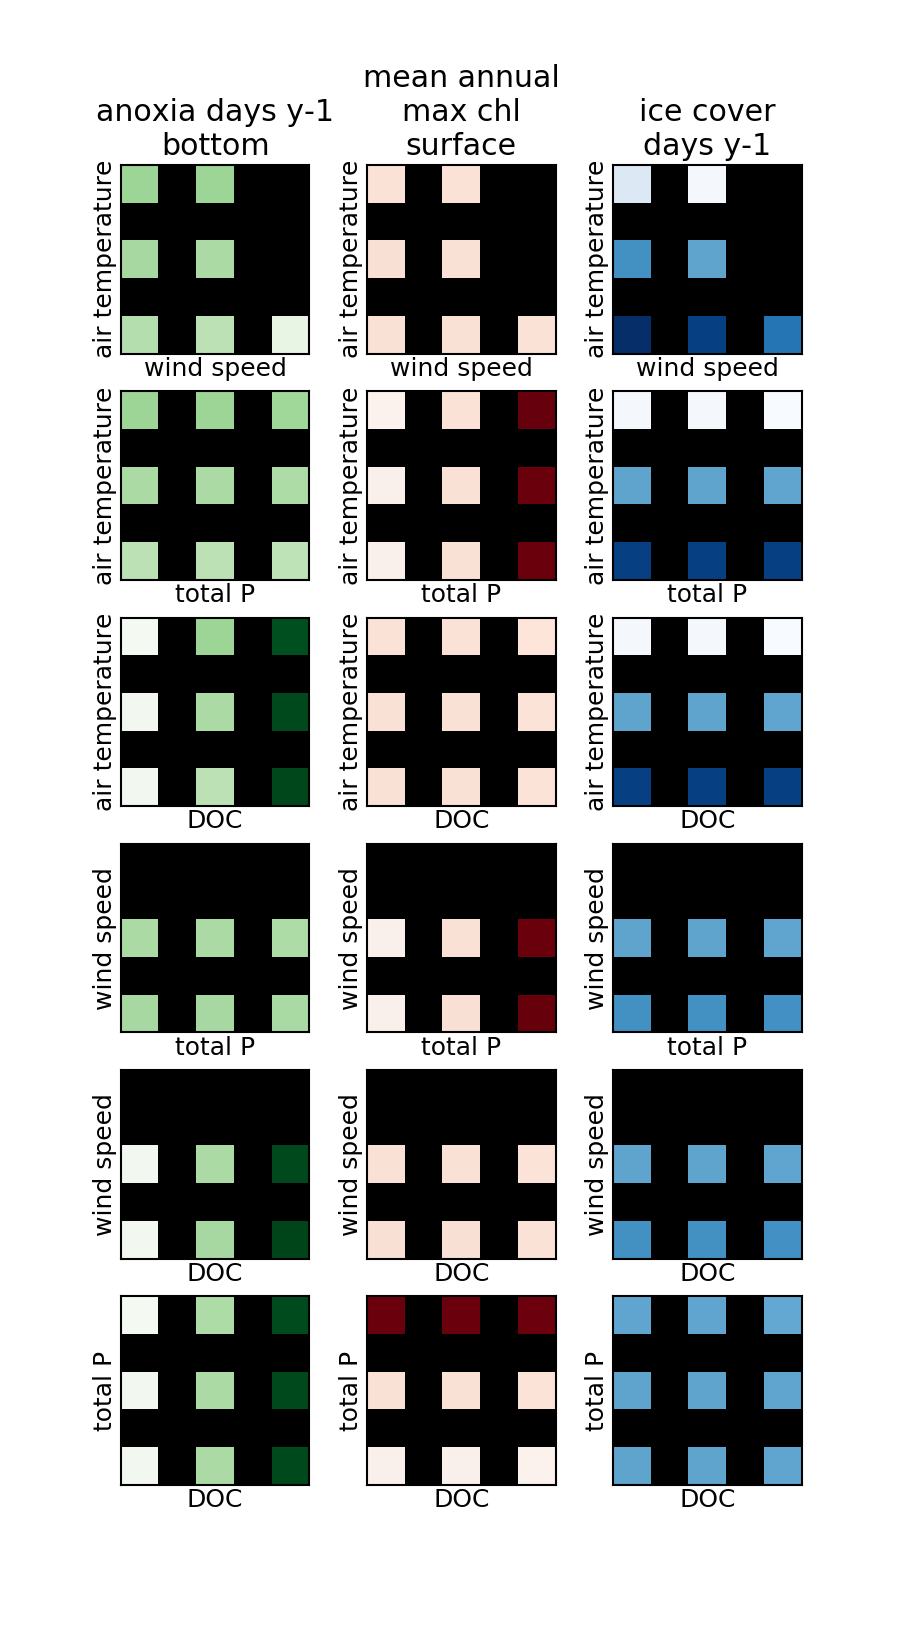
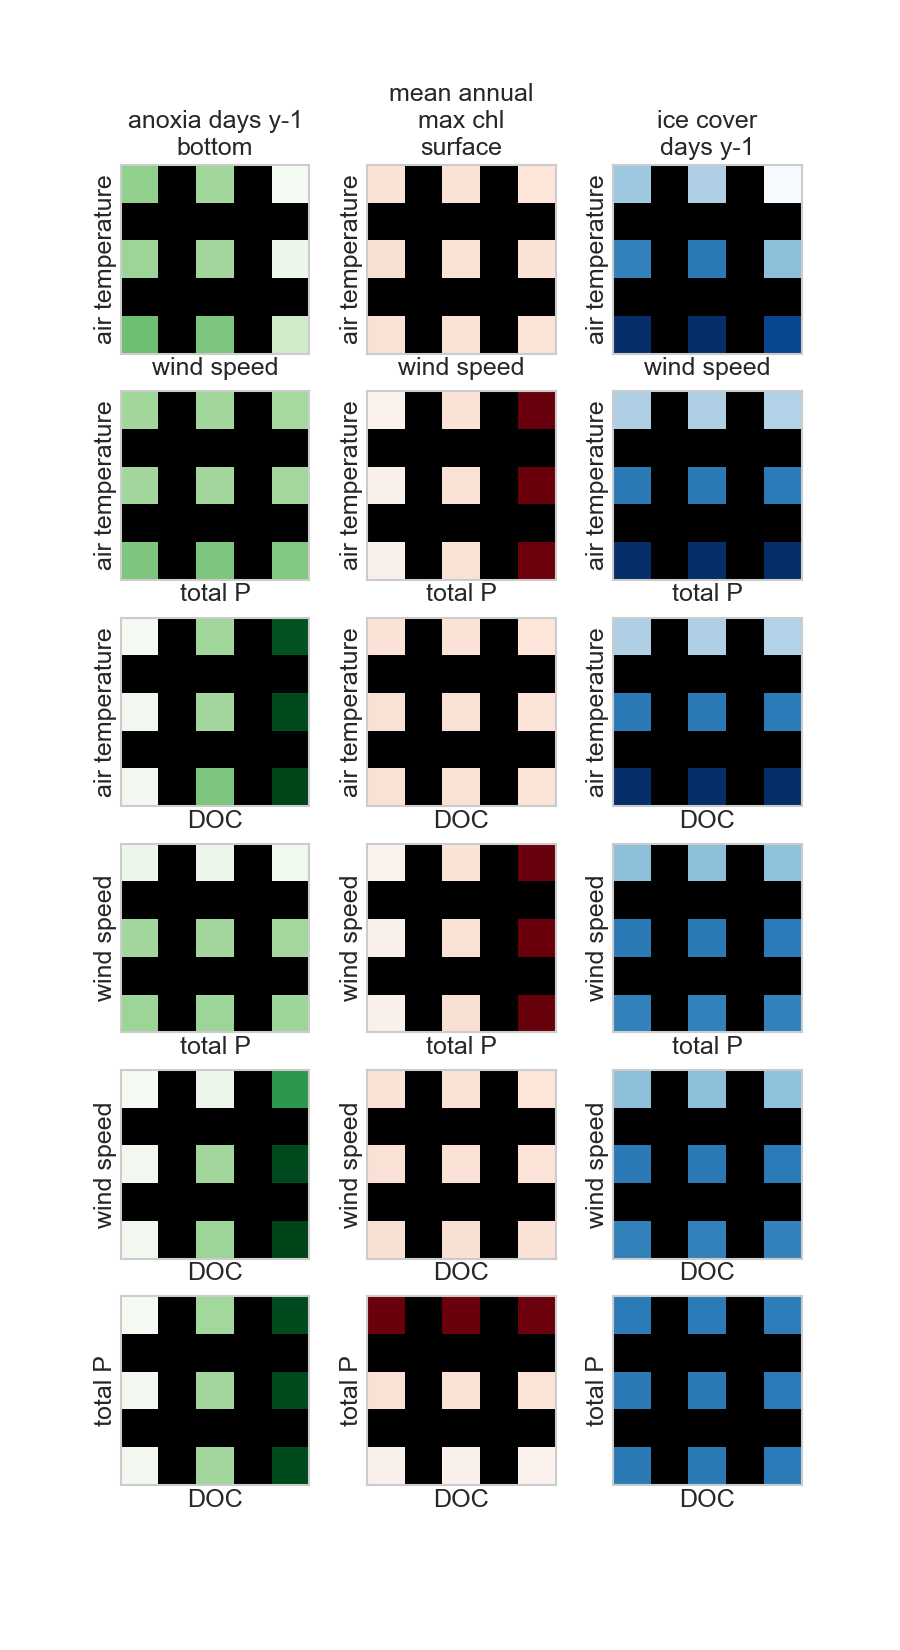
response surface old version but new data

diff --git a/simulations/08_4dim_4res/postprocessing/pp.py b/simulations/08_4dim_4res/postprocessing/pp.py
@@ -13,7 +13,7 @@ n2 = 5
 n3 = 5
 n4 = 5
 nt = 2922
-nz = 90
+nz = 18
 nr = 3 # responses
 
 ser = pd.period_range('2010-01-01', periods=(365*4+1)*2)
@@ -31,8 +31,8 @@ for i, x1, x2, x3, x4, id in d.itertuples():
         print(i, x1, x2, x3, x4, id)
         continue
 
-    if id == 573:
-        continue
+    # if id == 573:
+    #     continue
 
 
     # t = pd.read_csv('../simulations/id/{:05d}/t.csv.bz2'.format(id), header=None)
@@ -48,10 +48,10 @@ for i, x1, x2, x3, x4, id in d.itertuples():
 
 
     # number of anoxia (O2 < 0.05 at bottom) per year (last 4 years)
-    anoxia = (o2.loc[o2.index.year >= 2014].iloc[:, 89] < 0.05).sum() / 4 
+    anoxia = (o2.loc[o2.index.year >= 2014].iloc[:, 17] < 0.05).sum() / 4 
     
     # mean annual maximum chl at surface (last 4 years)
-    amc = chl.iloc[:, 89].groupby(chl.index.year).max()
+    amc = chl.iloc[:, 17].groupby(chl.index.year).max()
     mamc = amc[amc.index >= 2014].mean()
 
     # number of ice covered days per year (last 4 years)
